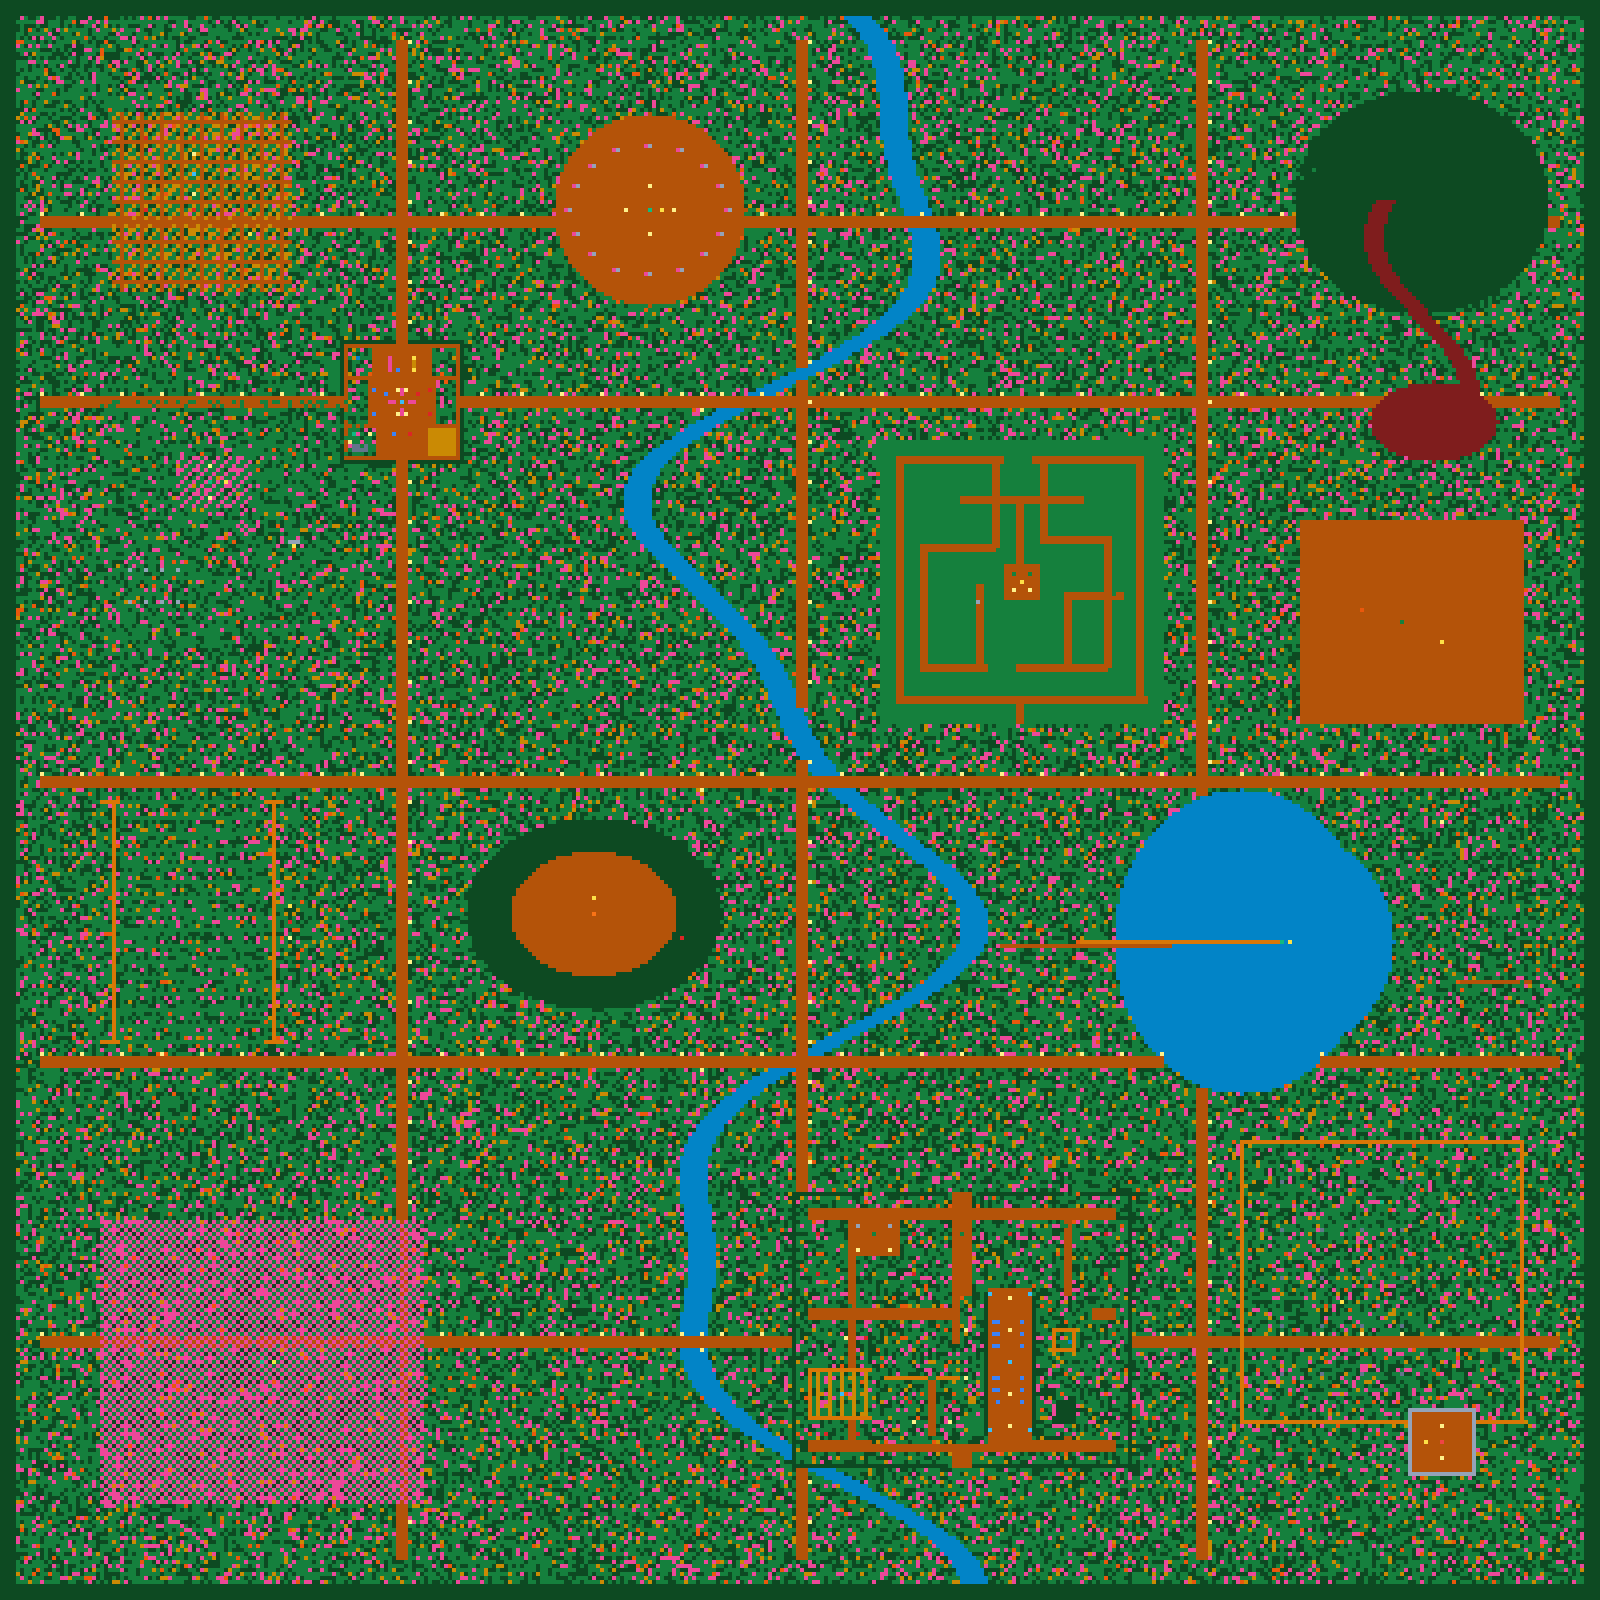
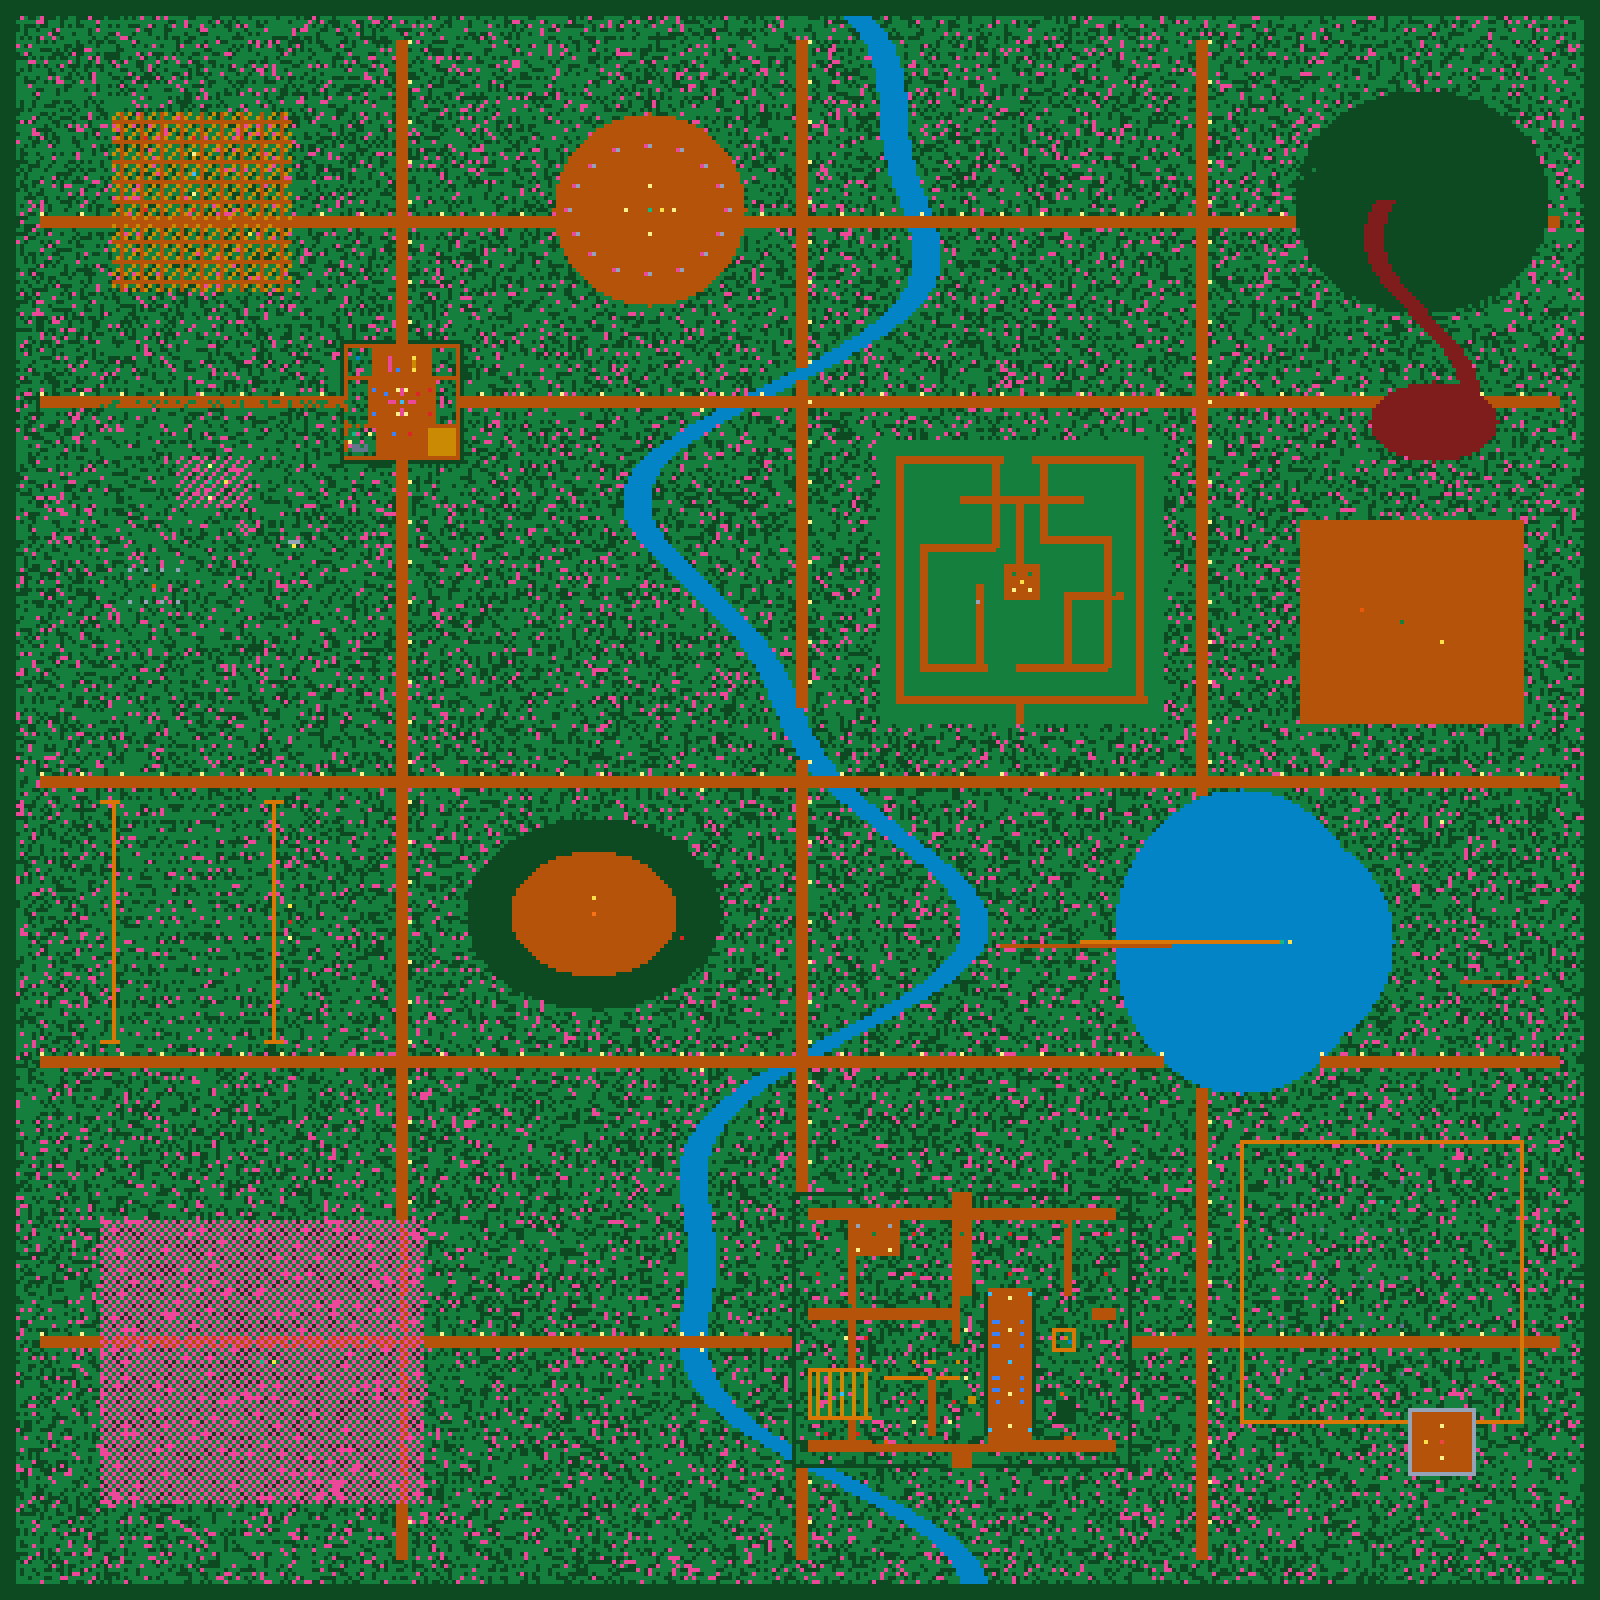
feat(worldgen): cleanup wild nature scatter pass to remove stray campfires and animals, keeping nature pure and farms structured

diff --git a/src/data/worldMapGenerator400.ts b/src/data/worldMapGenerator400.ts
@@ -688,15 +688,13 @@ export function generateForest400(): {
   }
   map[360][360] = 11; map[356][360] = 17; map[364][360] = 17; map[360][356] = 7;
 
-  // DENSE SCATTER PASS EN LA NATURALEZA (Árboles, flores, cultivos, sin columnas aleatorias)
+  // DENSE SCATTER PASS EN LA NATURALEZA (Bosque puro y limpio: solo robles y flores silvestres)
   for (let y = 4; y < MAP_SIZE - 4; y++) {
     for (let x = 4; x < MAP_SIZE - 4; x++) {
       if (map[y][x] === 0) {
         const val = prng(x, y, 101);
-        if (val < 0.28) map[y][x] = 1;
-        else if (val < 0.38) map[y][x] = 12;
-        else if (val < 0.42) map[y][x] = 13;
-        else if (val < 0.44) map[y][x] = 19;
+        if (val < 0.28) map[y][x] = 1;      // Roble de fantasía
+        else if (val < 0.36) map[y][x] = 12; // Matorral silvestre / Rosas
       }
     }
   }
